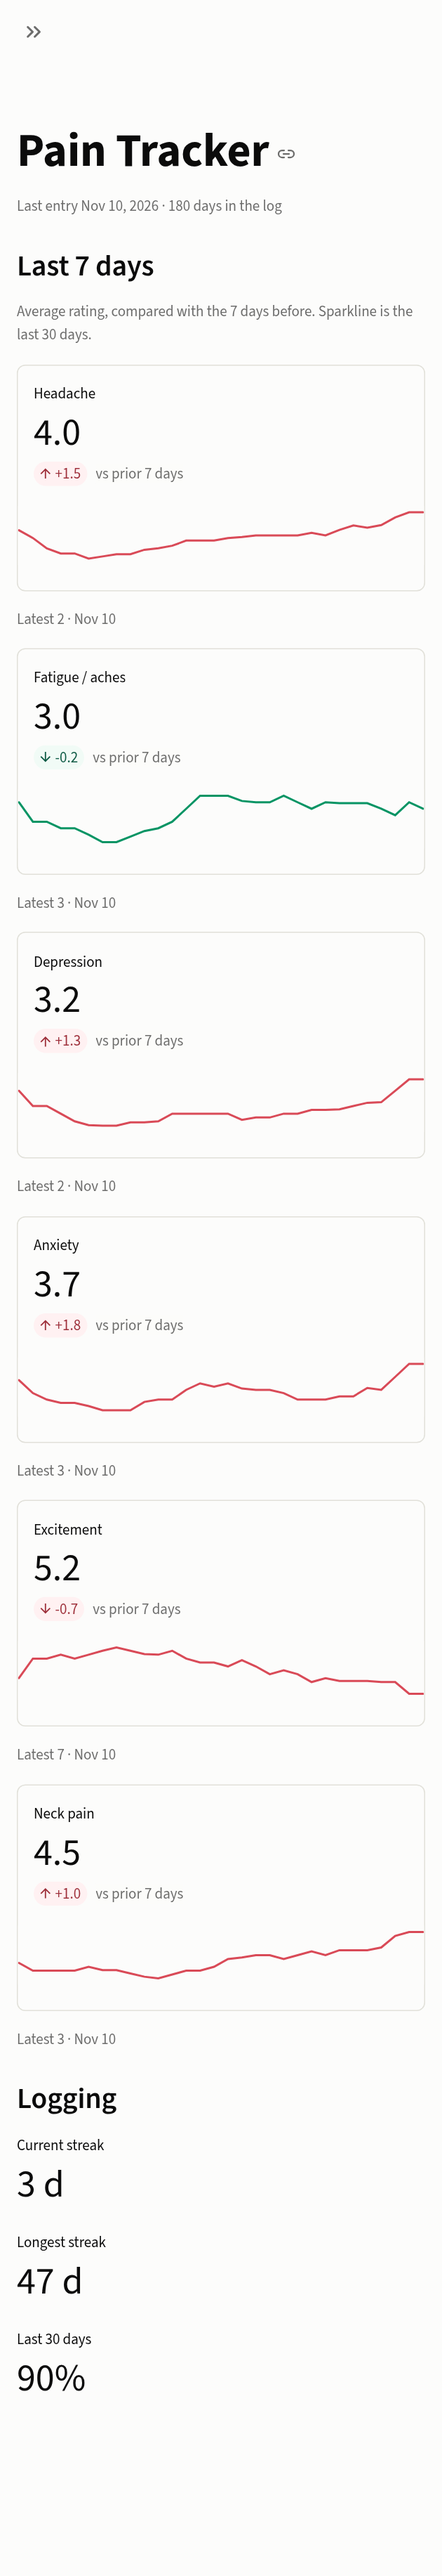
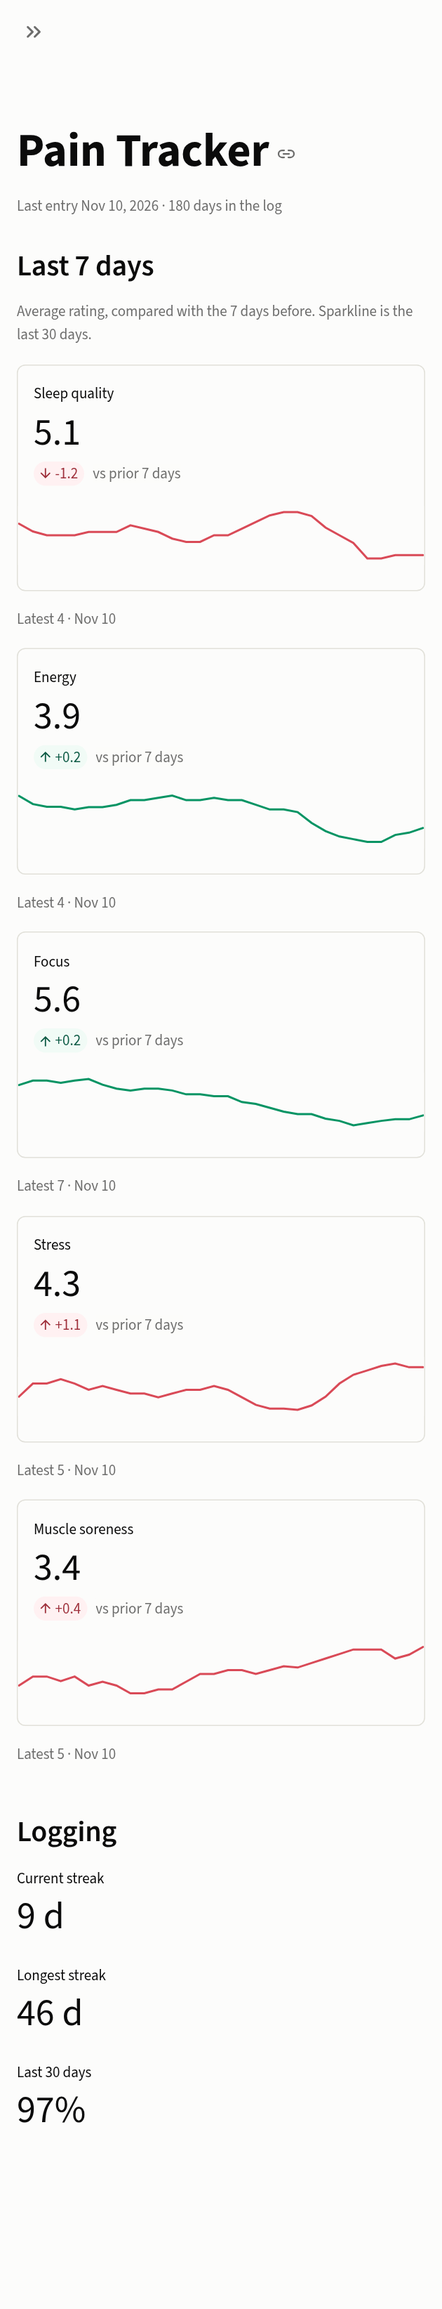
Give the demo its own generic schema and mixed-outlook data
Demo mode (and the README screenshots) now use five generic wellbeing
scores from config/demo.toml instead of the author's real log: Sleep
Quality, Energy Level and Focus (higher is better), Stress and Muscle
Soreness (lower is better). Live mode keeps using the real mapping
(metrics.toml, else metrics.example.toml). load_metrics_for(mode) picks
the file; tests enforce that the demo schema shares no keys, columns or
labels with the real one and that demo pages never show the real labels.

Synthetic data no longer hard-codes a metric key: the last metric is the
late survey addition. Each metric now has its own slow drift on top of
the shared burden signal, and DEMO_SEED is chosen so the overview shows
both improving and worsening tiles and the Patterns page has clear
correlations.

README data-model section and screenshots regenerated from the demo.

diff --git a/src/pain_tracker/synthetic.py b/src/pain_tracker/synthetic.py
@@ -16,8 +16,6 @@ import pandas as pd
 
 from .config import MetricsConfig
 
-DEFAULT_LATE_START: Mapping[str, float] = {"neck_pain": 0.5}
-
 
 def generate_raw(
     config: MetricsConfig,
@@ -32,11 +30,13 @@ def generate_raw(
     """Return a raw, sheet-shaped DataFrame covering ``days`` days ending on ``end``.
 
     ``late_start`` maps metric key -> fraction of the log before which it is blank,
-    mimicking a question added to the survey part-way through.
+    mimicking a question added to the survey part-way through. By default that is the
+    last metric in the config, blank for the first half.
     """
     if days < 1:
         raise ValueError("days must be >= 1")
-    late_start = DEFAULT_LATE_START if late_start is None else late_start
+    if late_start is None:  # by default the last metric is a late survey addition
+        late_start = {config.metrics[-1].key: 0.5}
     rng = np.random.default_rng(seed)
     end_ts = pd.Timestamp(end or date.today()).normalize()
     dates = pd.date_range(end=end_ts, periods=days, freq="D")
@@ -49,9 +49,11 @@ def generate_raw(
         span = metric.max - metric.min
         sign = -1.0 if metric.higher_is_better else 1.0
         base_frac = rng.uniform(0.55, 0.7) if metric.higher_is_better else rng.uniform(0.2, 0.4)
-        loading = rng.uniform(0.5, 1.0)
+        loading = rng.uniform(0.8, 1.3)
         noise = rng.normal(0, 0.7, size=days)
-        values = metric.min + span * base_frac + sign * (loading * burden + weekly) + noise
+        # Each metric also drifts on its own, so they can diverge instead of all moving together.
+        drift = _ar1(rng, days, phi=0.9, sd=0.25)
+        values = metric.min + span * base_frac + sign * (loading * burden + weekly) + drift + noise
         values = np.clip(np.rint(values), metric.min, metric.max) + 0.0  # +0.0 normalises -0.0
         frac = late_start.get(metric.key, 0.0)
         values[: int(frac * days)] = np.nan
@@ -77,6 +79,16 @@ def generate_raw(
             rows.append({config.timestamp_column: ts, **values})
 
     return pd.DataFrame(rows, columns=[config.timestamp_column, *columns])
+
+
+def _ar1(rng: np.random.Generator, n: int, *, phi: float, sd: float) -> np.ndarray:
+    """A slowly wandering zero-mean series."""
+    out = np.empty(n)
+    x = 0.0
+    for i in range(n):
+        x = phi * x + rng.normal(0, sd)
+        out[i] = x
+    return out
 
 
 def _latent_burden(rng: np.random.Generator, n: int) -> np.ndarray:

diff --git a/tests/test_config.py b/tests/test_config.py
@@ -6,6 +6,7 @@ from pain_tracker.config import (
     Mode,
     default_metrics_path,
     load_metrics,
+    load_metrics_for,
     resolve_mode,
 )
 
@@ -76,3 +77,28 @@ def test_partial_secrets_is_an_error_not_silent_demo():
     partial = {k: v for k, v in FULL_SECRETS.items() if k != "app_password"}
     with pytest.raises(ConfigError, match="app_password"):
         resolve_mode(partial, {})
+
+
+def test_demo_schema_has_five_metrics_with_both_directions(demo_config):
+    assert len(demo_config.metrics) == 5
+    better_high = [m for m in demo_config.metrics if m.higher_is_better]
+    better_low = [m for m in demo_config.metrics if not m.higher_is_better]
+    assert len(better_high) >= 2 and len(better_low) >= 2
+
+
+def test_demo_schema_is_different_from_the_real_one(config, demo_config):
+    """The public demo must not reuse the author's real metric names or column headers."""
+    assert not set(demo_config.keys) & set(config.keys)
+    real_columns = {m.column.lower() for m in config.metrics}
+    assert not {m.column.lower() for m in demo_config.metrics} & real_columns
+    assert not {m.label.lower() for m in demo_config.metrics} & {
+        m.label.lower() for m in config.metrics
+    }
+
+
+def test_load_metrics_for_mode(config, demo_config):
+    assert load_metrics_for(Mode.DEMO).keys == demo_config.keys
+    # live mode follows the normal resolution (env override > metrics.toml > example)
+    live = load_metrics_for(Mode.LIVE, {"PAIN_TRACKER_METRICS": str(CONFIG_DIR / "demo.toml")})
+    assert live.keys == demo_config.keys
+    assert load_metrics_for(Mode.LIVE, {}).keys  # resolves to a real file

diff --git a/app/shared.py b/app/shared.py
@@ -11,7 +11,13 @@ import streamlit as st
 
 from pain_tracker.auth import verify_password
 from pain_tracker.charts import PLOT_CONFIG, Theme, theme_for
-from pain_tracker.config import ConfigError, MetricsConfig, Mode, load_metrics, resolve_mode
+from pain_tracker.config import (
+    ConfigError,
+    MetricsConfig,
+    Mode,
+    load_metrics_for,
+    resolve_mode,
+)
 from pain_tracker.sources import build_source
 from pain_tracker.transform import to_daily
 
@@ -41,8 +47,9 @@ def _secrets() -> dict:
 
 
 @st.cache_resource
-def _config() -> MetricsConfig:
-    return load_metrics()
+def _config(mode_value: str) -> MetricsConfig:
+    """Demo mode uses the generic demo schema; live mode uses the real log's mapping."""
+    return load_metrics_for(Mode(mode_value))
 
 
 def _theme() -> Theme:
@@ -90,12 +97,12 @@ def page_setup(title: str, icon: str = ":material/monitor_heart:") -> Context:
             width="stretch",
             help="Re-read the log now instead of waiting for the cache to expire.",
         )
-    return Context(config=_config(), mode=mode, theme=_theme())
+    return Context(config=_config(mode.value), mode=mode, theme=_theme())
 
 
 @st.cache_data(ttl=CACHE_TTL_SECONDS, show_spinner="Loading log…")
 def _load_daily(mode_value: str) -> pd.DataFrame:
-    config = _config()
+    config = _config(mode_value)
     mode = Mode(mode_value)
     source = build_source(mode, config, _secrets() if mode is Mode.LIVE else None)
     return to_daily(source.load_raw(), config)

diff --git a/tests/test_app_smoke.py b/tests/test_app_smoke.py
@@ -27,16 +27,29 @@ def test_page_renders_in_demo_mode(page):
     assert any("Demo mode" in str(i.value) for i in at.sidebar.info)
 
 
-def test_home_shows_a_tile_per_metric(config):
+def test_home_shows_a_tile_per_demo_metric(demo_config):
     at = AppTest.from_file(str(APP / "Home.py"), default_timeout=30).run()
     labels = [m.label for m in at.metric]
-    for metric in config.metrics:
+    for metric in demo_config.metrics:
         assert metric.label in labels
 
 
-def test_trends_multi_select_switches_view():
+@pytest.mark.parametrize("page", PAGES)
+def test_demo_mode_never_shows_the_real_schema(page, config):
+    """Demo mode must use the generic demo schema, not the author's real column names."""
+    at = AppTest.from_file(str(APP / page), default_timeout=30).run()
+    shown = " ".join(
+        [str(m.label) for m in at.metric]
+        + [str(o) for ms in at.multiselect for o in ms.options]
+        + [str(o) for sb in at.selectbox for o in sb.options]
+    )
+    for metric in config.metrics:
+        assert metric.label not in shown
+
+
+def test_trends_multi_select_switches_view(demo_config):
     at = AppTest.from_file(str(APP / "pages/1_Trends.py"), default_timeout=30).run()
-    at.multiselect[0].set_value(["headache", "fatigue", "anxiety"]).run()
+    at.multiselect[0].set_value(demo_config.keys[:3]).run()
     assert not at.exception
     at.segmented_control(key="trend_view").set_value("Separate").run()
     assert not at.exception

diff --git a/tests/test_synthetic_and_sources.py b/tests/test_synthetic_and_sources.py
@@ -132,3 +132,26 @@ def test_gsheet_source_empty_sheet(monkeypatch):
 
 def test_readonly_scope_is_not_write_scope():
     assert SHEETS_READONLY_SCOPE.endswith("spreadsheets.readonly")
+
+
+def test_synthetic_works_for_the_demo_schema(demo_config):
+    raw = generate_raw(demo_config, days=150, end=FIXED_END, seed=5)
+    assert list(raw.columns) == [
+        demo_config.timestamp_column,
+        *(m.column for m in demo_config.metrics),
+    ]
+    last = demo_config.metrics[-1]
+    assert raw[last.column].iloc[:20].isna().all()  # last metric starts partway through
+    assert raw[demo_config.metrics[0].column].notna().all()
+    daily = to_daily(raw, demo_config)
+    for m in demo_config.metrics:
+        assert daily[m.key].dropna().between(m.min, m.max).all()
+
+
+def test_synthetic_demo_metrics_move_in_the_expected_directions(demo_config):
+    """Good scores fall when bad ones rise: the demo should look like a coherent person."""
+    daily = to_daily(generate_raw(demo_config, days=400, end=FIXED_END, seed=2), demo_config)
+    corr = daily.corr(method="spearman")
+    assert corr.loc["stress", "sleep_quality"] < -0.2
+    assert corr.loc["stress", "soreness"] > 0.2
+    assert corr.loc["energy", "focus"] > 0.2

diff --git a/src/pain_tracker/config.py b/src/pain_tracker/config.py
@@ -15,6 +15,8 @@ from pathlib import Path
 REPO_ROOT = Path(__file__).resolve().parents[2]
 CONFIG_DIR = REPO_ROOT / "config"
 METRICS_ENV_VAR = "PAIN_TRACKER_METRICS"
+# Demo mode always uses this generic schema, never the real log's.
+DEMO_METRICS_PATH = CONFIG_DIR / "demo.toml"
 
 # Keys that must all be present in secrets.toml for live mode.
 REQUIRED_SECRET_KEYS = ("gcp_service_account", "sheet_id", "worksheet", "app_password")
@@ -63,6 +65,13 @@ def default_metrics_path(environ: Mapping[str, str] | None = None) -> Path:
         return Path(override)
     private = CONFIG_DIR / "metrics.toml"
     return private if private.exists() else CONFIG_DIR / "metrics.example.toml"
+
+
+def load_metrics_for(mode: Mode, environ: Mapping[str, str] | None = None) -> MetricsConfig:
+    """Demo mode gets the generic demo schema; live mode gets the real log's mapping."""
+    if mode is Mode.DEMO:
+        return load_metrics(DEMO_METRICS_PATH)
+    return load_metrics(default_metrics_path(environ))
 
 
 def load_metrics(path: Path | str | None = None) -> MetricsConfig:

diff --git a/tests/conftest.py b/tests/conftest.py
@@ -2,7 +2,7 @@ from datetime import date
 
 import pytest
 
-from pain_tracker.config import CONFIG_DIR, MetricsConfig, load_metrics
+from pain_tracker.config import CONFIG_DIR, DEMO_METRICS_PATH, MetricsConfig, load_metrics
 
 FIXED_END = date(2026, 1, 31)
 
@@ -11,3 +11,9 @@ FIXED_END = date(2026, 1, 31)
 def config() -> MetricsConfig:
     # Always the committed example, never a developer's private config/metrics.toml.
     return load_metrics(CONFIG_DIR / "metrics.example.toml")
+
+
+@pytest.fixture(scope="session")
+def demo_config() -> MetricsConfig:
+    """The generic schema used by demo mode and the README screenshots."""
+    return load_metrics(DEMO_METRICS_PATH)

diff --git a/src/pain_tracker/sources.py b/src/pain_tracker/sources.py
@@ -17,6 +17,11 @@ from .synthetic import generate_raw
 SHEETS_READONLY_SCOPE = "https://www.googleapis.com/auth/spreadsheets.readonly"
 
 
+# Seed for the demo/README data. Chosen so the overview shows a mix of improving and
+# worsening metrics (direction-aware colouring) and clear correlations in the Patterns page.
+DEMO_SEED = 19
+
+
 class DataSource(Protocol):
     def load_raw(self) -> pd.DataFrame: ...
 
@@ -25,7 +30,7 @@ class DataSource(Protocol):
 class SyntheticSource:
     config: MetricsConfig
     days: int = 180
-    seed: int = 0
+    seed: int = DEMO_SEED
     end: date | None = None
 
     def load_raw(self) -> pd.DataFrame:

diff --git a/README.md b/README.md
@@ -1,6 +1,6 @@
 # Pain Tracker
 
-A private, self-hosted Streamlit dashboard for tracking, trending and visualizing a personal daily health log. A Google Form feeds a Google Sheet; the app reads that sheet (read-only) and turns it into trends, calendar heatmaps and pattern analysis, viewable from a laptop or a phone on the home network.
+A private, self-hosted Streamlit dashboard for tracking, trending and visualizing a personal daily health log. A Google Form feeds a Google Sheet; the app reads that sheet (read-only) and turns it into trends, calendar heatmaps and pattern analysis, viewable from a browser on the home network.
 
 > **Status: in development.** The data layer and the demo-mode UI work end to end. Live Google Sheets mode and Docker deployment come next. See the roadmap below.
 
@@ -25,22 +25,23 @@ The repo is public, but the author's data is not in it. With no credentials conf
 - **Data:** filterable table of the underlying log (live mode only, behind a password)
 
 ## Data model
-One row per form submission, six daily 0–10 style ratings:
+One row per form submission, with a timestamp and a handful of daily 0–10 scores. The metrics are configuration, not code. The demo (and the screenshots above) use five generic wellbeing scores, three where higher is better and two where lower is better:
 
 | Column | Meaning | Better when |
 |---|---|---|
 | `Timestamp` | When the form was submitted | n/a |
-| `Headache Severity` | Headache | lower |
-| `Fatigue / Body Aches` | Fatigue and body aches | lower |
-| `Depression` | Depressed mood | lower |
-| `Anxiety` | Anxiety | lower |
-| `Excitement` | Excitement and positive drive | higher |
-| `Neck Pain` | Neck pain (added later, so earlier days are blank) | lower |
+| `Sleep Quality` | How well you slept | higher |
+| `Energy Level` | Energy through the day | higher |
+| `Focus` | Ability to concentrate | higher |
+| `Stress` | Felt stress | lower |
+| `Muscle Soreness` | Aches after activity (added later in the demo log, so earlier days are blank) | lower |
+
+The direction matters: the app colours a change as "good" or "bad" using each metric's own better-when flag, so a rising Stress score and a falling Sleep Quality score both read as worsening.
 
 Real-world logs are messy, and the transform layer handles it: several submissions on one day, skipped days, mixed timestamp formats, and a metric that starts partway through the log. Missing values stay missing rather than being treated as zero.
 
 ## Design
-- **Config-driven metrics:** column headers map to stable keys in `config/metrics.example.toml`, so renaming a survey question doesn't touch the code.
+- **Config-driven metrics:** column headers map to stable keys, labels, scales and a better-when direction in TOML (`config/demo.toml` for the demo, `config/metrics.example.toml` for a real sheet), so changing or renaming a survey question never touches the code.
 - **Pluggable sources:** a `DataSource` interface with Google Sheets, CSV and synthetic implementations.
 - **Logic separate from UI:** analytics live in a plain Python package with tests. Streamlit pages stay thin.
 - **Mobile first:** layouts are designed for a phone screen. Charts disable drag-zoom so touch scrolling still works, and tapping shows a tooltip listing every series for that date.
@@ -71,7 +72,7 @@ The author runs this on a Windows PC with the code in WSL2 and the app in Docker
 1. In Docker Desktop, enable Settings → Resources → WSL Integration for your distro, and "Start Docker Desktop when you sign in".
 2. Create a Google Cloud service account, enable the Sheets API, and share your sheet with the service account as Viewer.
 3. Save the key, sheet ID and an app password in `~/.config/pain-tracker/secrets.toml` (`chmod 600`). See `.streamlit/secrets.toml.example`.
-4. Copy `config/metrics.example.toml` to `config/metrics.toml` and adjust it if your headers differ.
+4. Copy `config/metrics.example.toml` to `config/metrics.toml` (gitignored) and edit it so each metric's `column` matches your sheet's header, with the label, scale and `higher_is_better` you want. Demo mode ignores this file and always uses `config/demo.toml`.
 5. From WSL: `docker compose up -d`.
 6. In an admin PowerShell, allow the port on private networks only:
    `New-NetFirewallRule -DisplayName "Pain Tracker 8501" -Direction Inbound -Protocol TCP -LocalPort 8501 -Action Allow -Profile Private`

diff --git a/CLAUDE.md b/CLAUDE.md
@@ -23,7 +23,9 @@ Add dependencies with `uv add` / `uv add --dev`, never by editing `uv.lock`.
 ## Architecture
 - `src/pain_tracker/`: `config` (mode + metrics config), `sources` (`DataSource` protocol → `GSheetSource`, `CsvSource`, `SyntheticSource`), `synthetic`, `transform`, `analytics`, `charts` (Plotly figure builders + light/dark `Theme` tokens), `auth` (`verify_password`). None import Streamlit.
 - `app/Home.py` + `app/pages/{1_Trends,2_Calendar,3_Patterns,4_Data}.py`: thin pages. `app/shared.py` holds `page_setup()` (config, mode, auth gate, sidebar), cached `load_daily()`, `range_filter()`, `show_chart()`, `table_view()`. Every page must call `shared.page_setup()` first and load data only after it returns, since that is what enforces the password gate.
-- Tests live in `tests/` and use `config/metrics.example.toml` plus hand-written or synthetic frames only.
+- **Two schemas, kept separate.** Demo mode (and the README screenshots) use the generic five-metric schema in `config/demo.toml` (Sleep Quality, Energy Level, Focus higher-is-better; Stress, Muscle Soreness lower-is-better). Live mode uses the real log's schema from `config/metrics.toml` if present, else `config/metrics.example.toml`. `config.load_metrics_for(mode)` picks the file; `shared._config(mode)` caches it. A test enforces that the demo schema shares no keys, columns or labels with the real one, and another that demo pages never show the real labels. Never hard-code metric keys in `src/` or `app/`; derive them from the loaded config.
+- Synthetic data: the last metric in the config is treated as a late survey addition (blank for the first half). Every metric has the shared burden signal (strong coupling) plus its own small slow drift, so metrics move together but can still diverge. `sources.DEMO_SEED` (19) is chosen so the overview shows both improving and worsening tiles; if you change the generator, re-check that mix (and regenerate `docs/screenshots/`).
+- Tests live in `tests/`. `config` is the real-schema example file, `demo_config` is the demo schema; both use hand-written or synthetic frames only.
 - **Mode:** live if `secrets.toml` is present, otherwise demo (synthetic data). `DEMO_MODE=1` forces demo. Live mode sits behind a password gate; demo mode does not.
 - Keep logic in `src/` (testable, no Streamlit imports) and keep pages thin.
 
